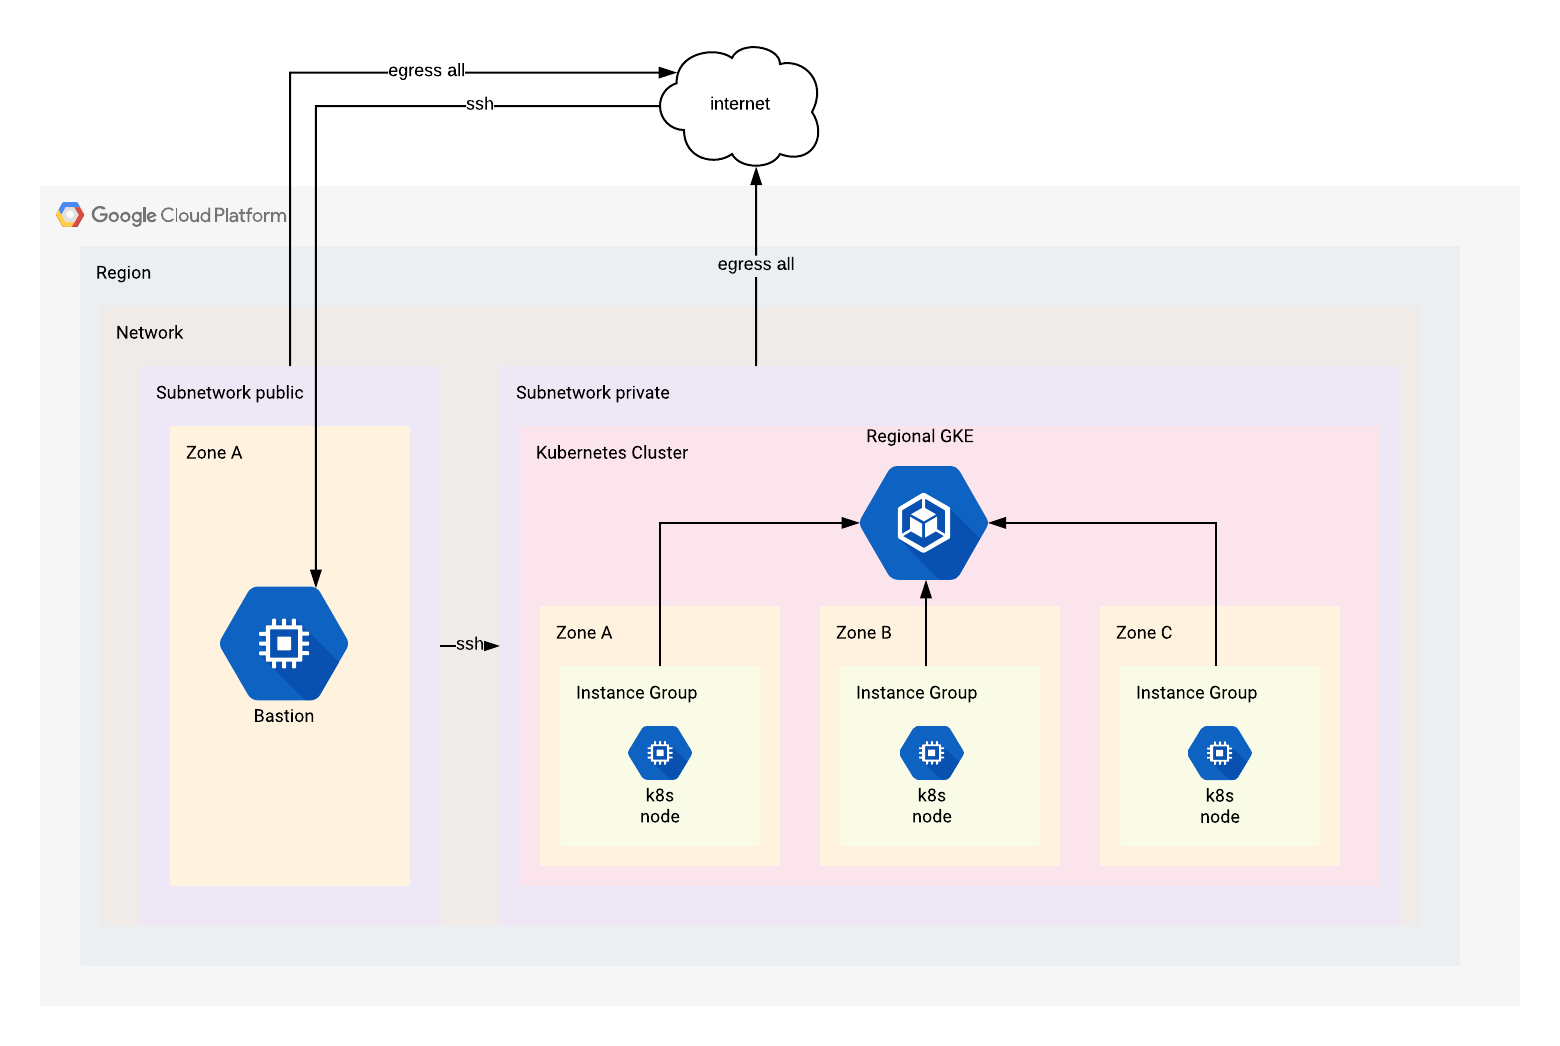
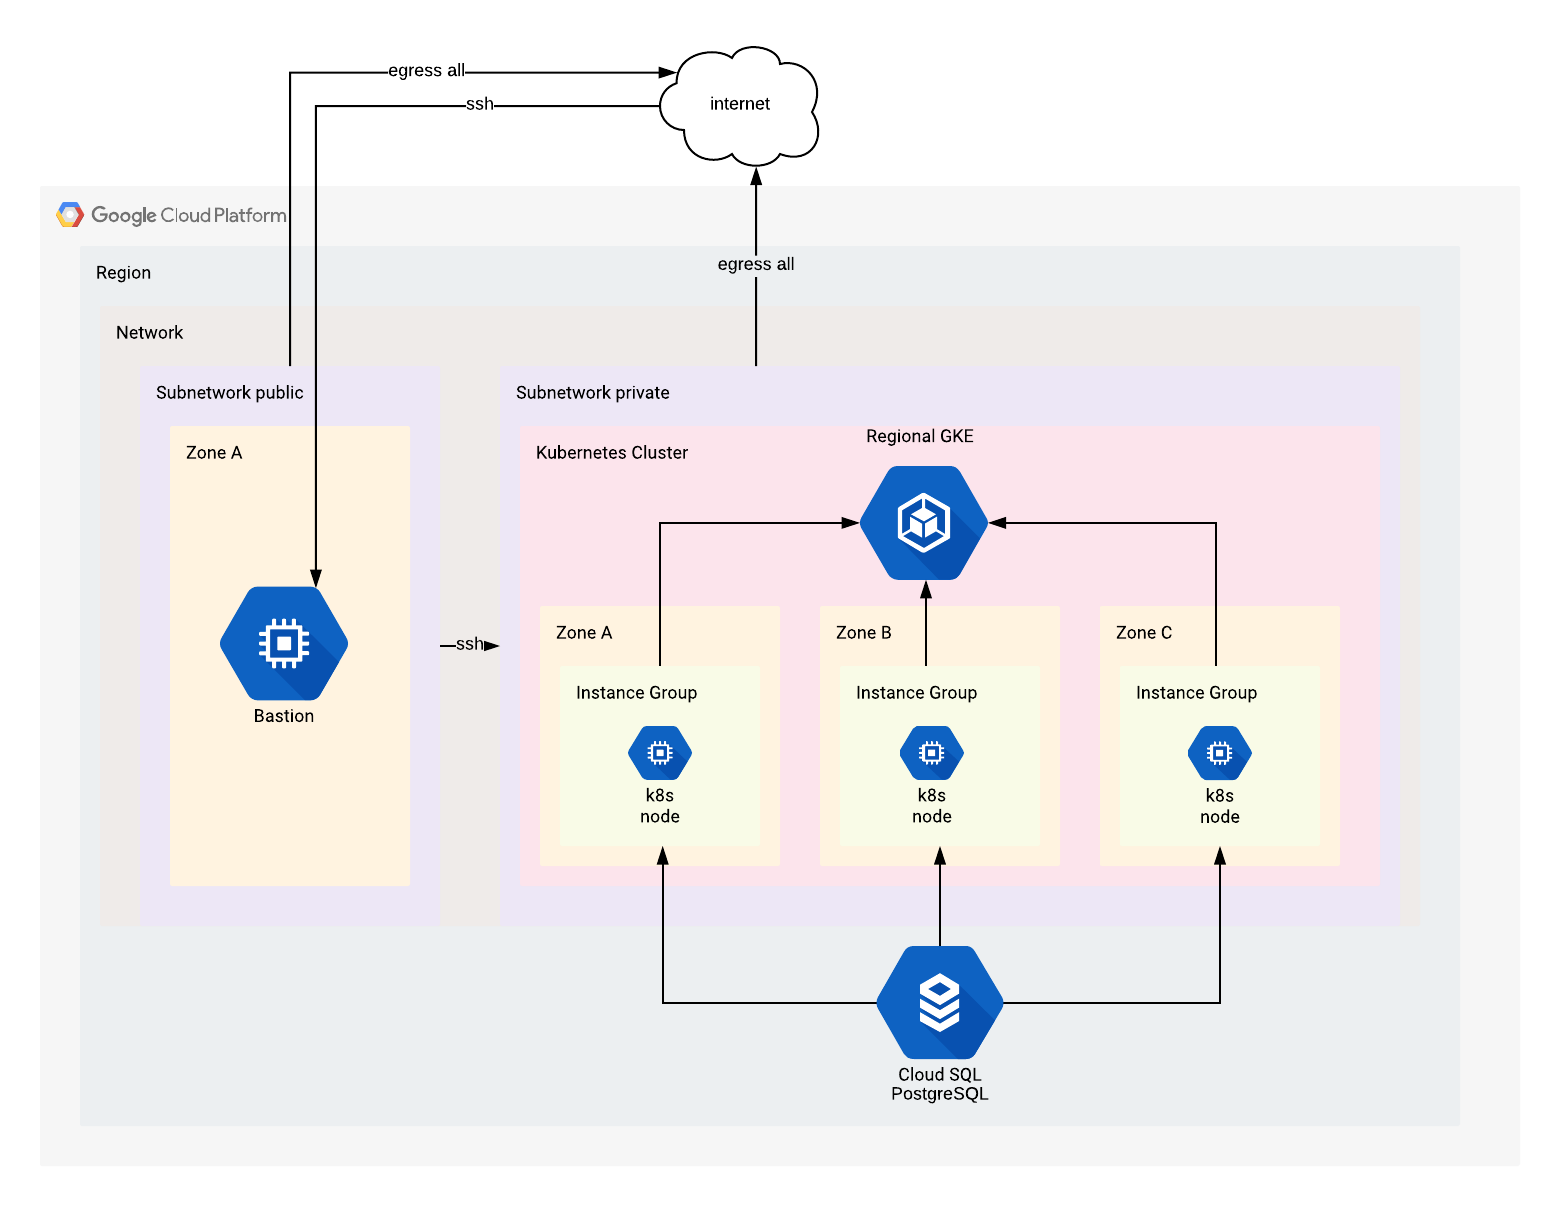
Implementation of a backend for play with sql (#6)
* setup for postgres

* fixes

* some fixes

diff --git a/README.md b/README.md
@@ -39,17 +39,21 @@ We will now start the deployment of the infrastructure with the Terraform code. 
 - In Google Cloud Platform, go to Compute Engine, under metadata click on SSH Keys and add a ssh key that will be applied to all the instances at the project level.
 - setup application default credentials `gcloud auth application-default login`
 
-- In a shell, go to the folder [/gcp/us-west1/production/base](/gcp/us-west1/production/base) and do a `terraform init`. This will fetch the modules in the [/modules/gcp](/modules/gcp) folder and initialize the bucket backend. Now do a `terraform apply`, it will generate a plan of the actions that will take place and will ask if yes or no you wan to apply those changes. If you are ok with the changes answer yes and wait until Terraform finish to create the ressources.
+- In a shell, go to the folder [/gcp/us-west1/production/base](gcp/us-west1/production/base) and do a `terraform init`. This will fetch the modules in the [/modules/gcp](modules/gcp) folder and initialize the bucket backend. Now do a `terraform apply`, it will generate a plan of the actions that will take place and will ask if yes or no you wan to apply those changes. If you are ok with the changes, answer yes and wait until Terraform finishes creating the resources.
 
-- Do the same steps than previously in the folder [/gcp/us-west1/production/network](/gcp/us-west1/production/network).
-
-- Do the same steps than previously in the folder [/gcp/us-west1/production/k8s](/gcp/us-west1/production/k8s).
+- Do the same steps than previously in the folders:
+    - [/gcp/us-west1/production/network](gcp/us-west1/production/network)
+    - [/gcp/us-west1/production/k8s](gcp/us-west1/production/k8s)
 
 - In Google Cloud Platform, go to Kubernetes Engine and click on connect to get the shell command to setup the authentication to your newly created cluster, this should look something like this:
 
 ```
 export CLOUDSDK_CONTAINER_USE_V1_API_CLIENT=false && export CLOUDSDK_CONTAINER_USE_V1_API=false && gcloud beta container clusters get-credentials battlesnake-k8s-gke --region us-west1 --project battlesnake-123456
 ```
+
+-  Do a `terraform init` and `terraform apply` in the following folders:
+    - [/gcp/us-west1/production/sql](gcp/us-west1/production/sql) 
+    - [/gcp/us-west1/production/k8s_secrets](gcp/us-west1/production/k8s_secrets)
 
 - We are now setting up RBAC resources:
 
